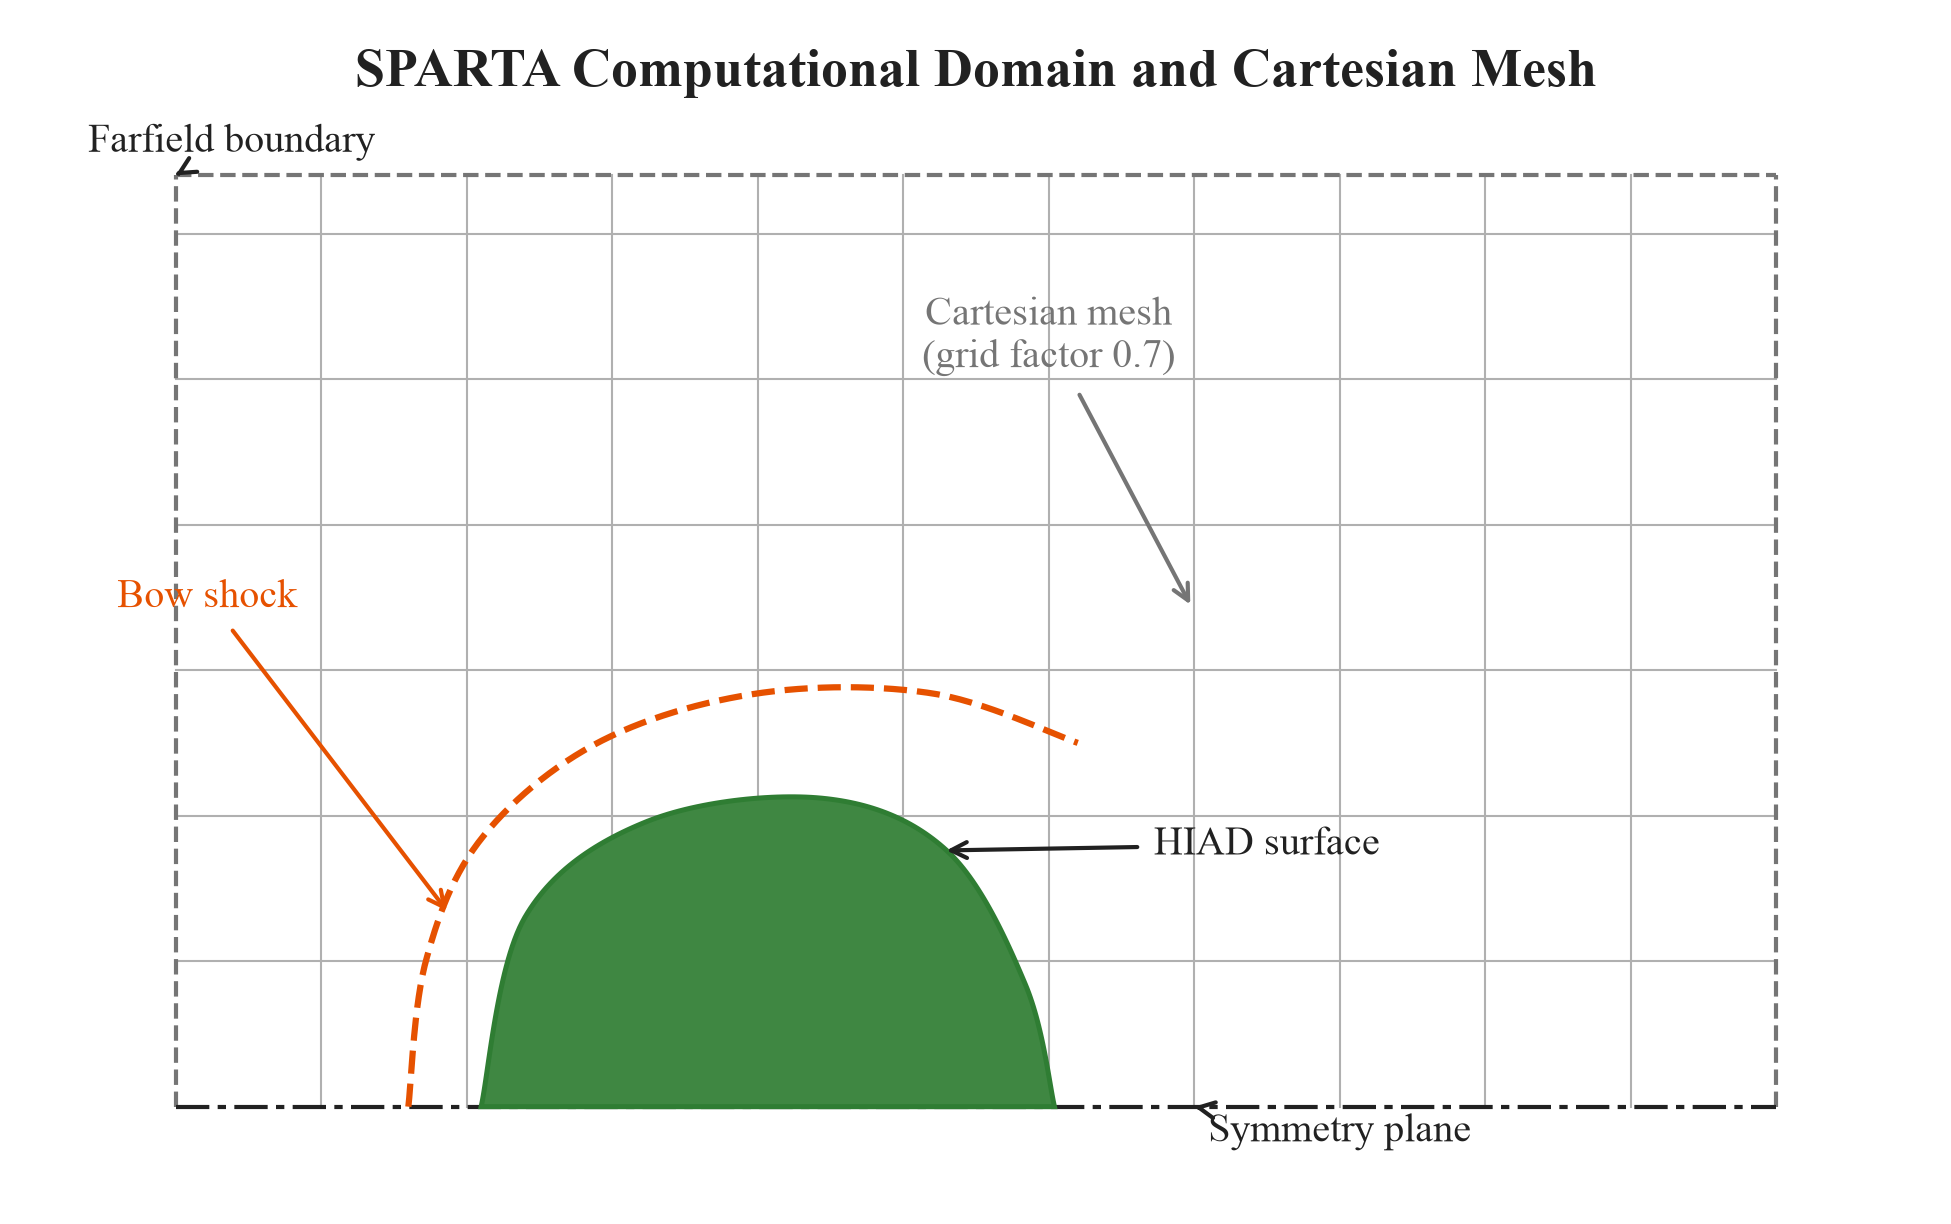
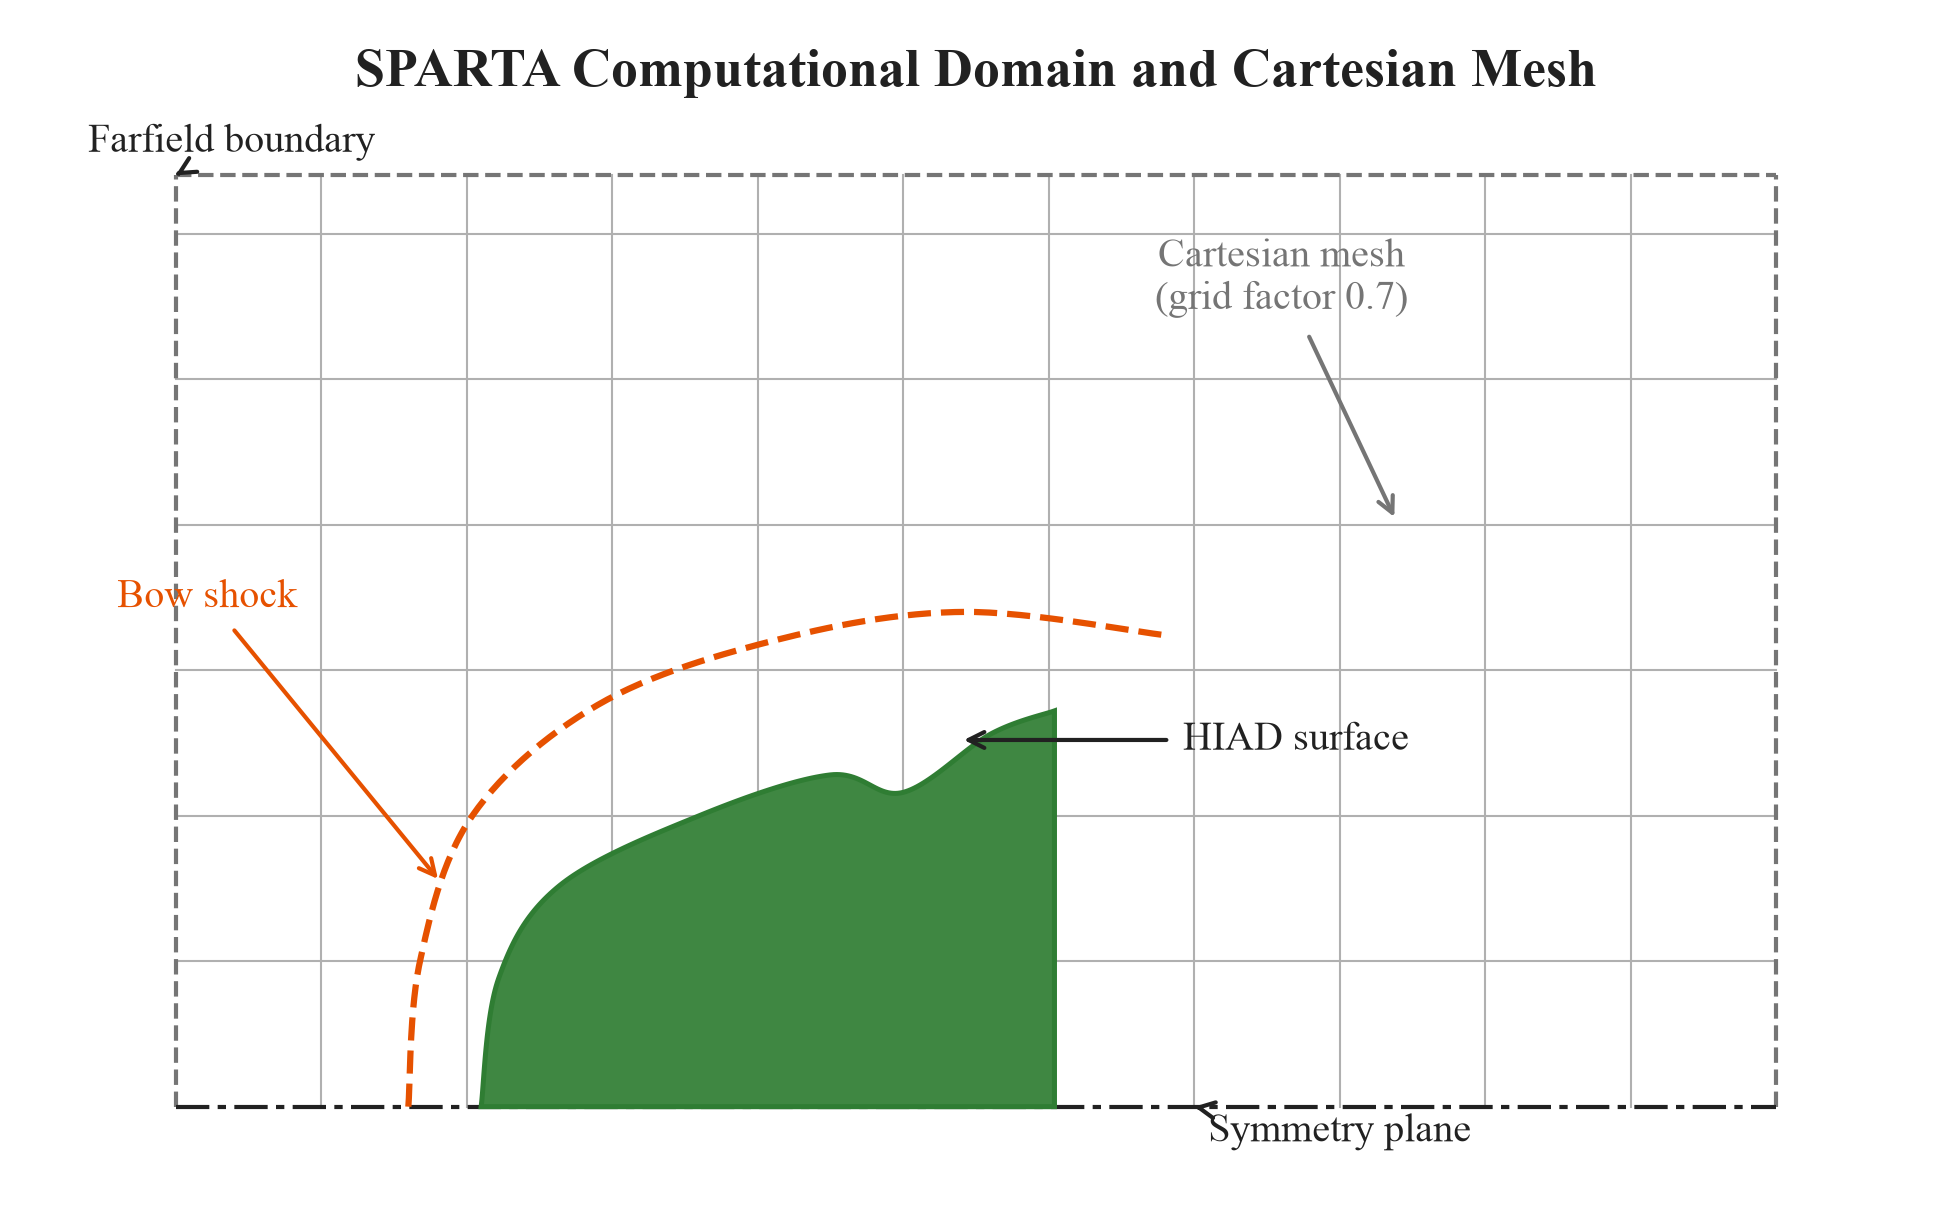
fix(thesis): redraw Figure III.6 as an actual HIAD aeroshell
Figure III.6 (SPARTA computational domain and Cartesian mesh) drew its
"HIAD vehicle" as a left-right symmetric half-ellipse sitting on the
symmetry plane, which is a generic bump: no nose cap, no conical flank,
no toroidal shoulder. Its own alt text claimed a "semicircular nose and
a toroidal body" that the drawing did not contain.

Two defects, both in build_domain_mesh:

1. The last surface control point sat on the symmetry plane, so the
   Catmull-Rom spline swept the surface back down onto the centerline
   and closed a symmetric bump rather than a body whose radius grows
   from the nose out to the base.

2. The flat aft base was encoded as the final vertex of the Path, which
   makes it the CLOSEPOLY vertex - and matplotlib discards CLOSEPOLY
   vertex coordinates, always closing back to the first vertex instead.
   The base corner was therefore never drawn at all, and the silhouette
   closed on a straight diagonal from the shoulder to the nose tip,
   producing a leaf shape.

The contour now runs nose tip -> blunt nose cap -> conical flank ->
notch at the torus stack root -> inflated toroidal shoulder -> base
corner (a real LINETO) -> close along the symmetry plane. The notch is
deliberate: the inflatable tori sit proud of the cone, which is what the
thesis's own figures/hiad_parametric_cross_section.png shows. The bow
shock was raised to clear the taller shoulder and the two arrow labels
were re-aimed at the new surface.
[…]

diff --git a/Lost+Found/ProgressReport/CurrentThesisFinalReport/figures/make_methodology_figures.py b/Lost+Found/ProgressReport/CurrentThesisFinalReport/figures/make_methodology_figures.py
@@ -278,40 +278,60 @@ def build_domain_mesh() -> object:
     for y in [0.8, 1.3, 1.8, 2.3, 2.8, 3.3]:
         ax.plot([0.5, 6.0], [y, y], color="#B0B0B0", linewidth=0.5, zorder=0)
 
-    # HIAD vehicle: one smooth, blunt body-of-revolution cross-section.
-    # WHY one closed interpolated contour: a previous revision pasted a nose arc
-    # onto a separate body wedge, which left a notch at the junction and read as
-    # a dome plus a ramp rather than a blunt aeroshell.  A single Catmull-Rom
-    # contour through the surface control points removes the notch.
+    # HIAD vehicle: a blunt aeroshell of revolution in meridian section,
+    # whose radius GROWS from the nose tip on the symmetry plane out to the
+    # inflated toroidal shoulder, then closes on a FLAT aft base.
+    #
+    # WHY the base corner is appended instead of interpolated: the aft face
+    # of a HIAD is a flat disk perpendicular to the symmetry plane.  If the
+    # last control point sits on the symmetry plane (as an earlier revision
+    # had it) the Catmull-Rom spline sweeps the surface back down onto the
+    # centerline, closing a left-right symmetric bump that reads as a dome
+    # plus a ramp rather than a flared aeroshell.  Taking the vertical base
+    # segment out of the interpolant keeps the silhouette asymmetric, which
+    # is what makes it read as a vehicle facing the flow.
+    #
+    # WHY the dip at the third-from-last point: the conical flank ends where
+    # the inflatable torus stack begins, and the tori sit proud of the cone,
+    # so the real skin shows a notch there before bulging outward again.
+    # See figures/hiad_parametric_cross_section.png (Rapisarda MDAO baseline).
     import numpy as np
     from matplotlib.path import Path
     from matplotlib.patches import PathPatch
 
-    vx, vy = _blunt_body_contour(
-        [(1.55, 0.30),   # nose tip, on the symmetry plane (front)
-         (1.70, 0.95),   # blunt nose
-         (2.12, 1.28),   # forebody
-         (2.72, 1.36),   # toroidal body crest
-         (3.15, 1.18),   # aft shoulder
-         (3.42, 0.72),   # aft taper
-         (3.52, 0.30)],  # aft base, on the symmetry plane
+    y0 = 0.30  # symmetry plane
+    sx, sy = _blunt_body_contour(
+        [(1.55, y0),    # nose tip, on the symmetry plane (stagnation point)
+         (1.61, 0.74),  # blunt nose cap
+         (1.82, 1.06),  # nose / forebody junction
+         (2.30, 1.30),  # conical flank at theta_c
+         (2.75, 1.44),  # flank ends where the torus stack begins
+         (3.00, 1.38),  # root of the inflated shoulder (tori sit proud)
+         (3.30, 1.58),  # inflated toroidal shoulder bulge
+         (3.52, 1.66)], # shoulder crest at the outer edge
         samples_per_segment=30)
-    # Close the silhouette along the symmetry plane (nose base to aft base).
-    verts = list(zip(vx, vy)) + [(vx[0], vy[0])]
-    codes = [Path.MOVETO] + [Path.LINETO] * (len(vx) - 1) + [Path.CLOSEPOLY]
+    # Vertices are: surface, then the base corner, then a repeat of the nose
+    # tip.  The repeat exists because Path assigns each code to one vertex
+    # and CLOSEPOLY's vertex coordinates are DISCARDED, so the closing edge
+    # is always drawn back to the first vertex.  Putting the base corner last
+    # would have made it the discarded vertex, and the silhouette would then
+    # close on a straight diagonal from the shoulder to the nose tip.
+    pts = list(zip(sx, sy))
+    verts = pts + [(pts[-1][0], y0), pts[0]]
+    codes = [Path.MOVETO] + [Path.LINETO] * (len(verts) - 2) + [Path.CLOSEPOLY]
     ax.add_patch(PathPatch(Path(verts, codes), facecolor=SOLVER_FILL,
                            edgecolor=SOLVER_EDGE, linewidth=1.2, zorder=2))
 
     # Bow shock: one smooth curve, convex upstream, detached ahead of the nose
-    # and wrapping aft over the shoulder.
+    # and wrapping aft clear of the taller shoulder.
     sx, sy = _blunt_body_contour(
-        [(1.30, 0.30),   # vertex on the symmetry plane, upstream of the nose
-         (1.36, 0.80),   # near-normal stand-off (convex upstream)
-         (1.55, 1.22),   #
-         (1.95, 1.55),   # curving over the shoulder
-         (2.50, 1.72),   #
-         (3.10, 1.72),   # trailing aft
-         (3.60, 1.55)],
+        [(1.30, y0),    # vertex on the symmetry plane, upstream of the nose
+         (1.34, 0.80),  # near-normal stand-off (convex upstream)
+         (1.52, 1.30),  #
+         (1.95, 1.68),  # curving over the shoulder
+         (2.55, 1.90),  #
+         (3.20, 2.00),  # trailing aft
+         (3.90, 1.92)],
         samples_per_segment=30)
     ax.plot(sx, sy, linestyle="--", color=ORANGE, linewidth=1.5, zorder=1)
 
@@ -319,17 +339,17 @@ def build_domain_mesh() -> object:
     ax.annotate("Farfield boundary", xy=(0.5, 3.5), xytext=(0.2, 3.55),
                 fontsize=9.5, color=INK, ha="left", va="bottom",
                 arrowprops=dict(arrowstyle="->", color=INK, lw=1.0))
-    ax.annotate("Symmetry plane", xy=(4.0, 0.3), xytext=(4.5, 0.15),
+    ax.annotate("Symmetry plane", xy=(4.0, y0), xytext=(4.5, 0.15),
                 fontsize=9.5, color=INK, ha="center", va="bottom",
                 arrowprops=dict(arrowstyle="->", color=INK, lw=1.0))
-    ax.annotate("HIAD surface", xy=(3.12, 1.18), xytext=(4.25, 1.20),
+    ax.annotate("HIAD surface", xy=(3.18, 1.56), xytext=(4.35, 1.56),
                 fontsize=9.5, color=INK, ha="center", va="center",
                 arrowprops=dict(arrowstyle="->", color=INK, lw=1.0))
-    ax.annotate("Bow shock", xy=(1.45, 0.95), xytext=(0.3, 2.05),
+    ax.annotate("Bow shock", xy=(1.42, 1.06), xytext=(0.3, 2.05),
                 fontsize=9.5, color=ORANGE, ha="left", va="center",
                 arrowprops=dict(arrowstyle="->", color=ORANGE, lw=1.0))
-    ax.annotate("Cartesian mesh\n(grid factor 0.7)", xy=(4.0, 2.0),
-                xytext=(3.5, 2.8), fontsize=9.5, color=HEADER_GRAY,
+    ax.annotate("Cartesian mesh\n(grid factor 0.7)", xy=(4.7, 2.3),
+                xytext=(4.3, 3.0), fontsize=9.5, color=HEADER_GRAY,
                 ha="center", va="bottom",
                 arrowprops=dict(arrowstyle="->", color=HEADER_GRAY, lw=1.0))
 

diff --git a/Lost+Found/ProgressReport/CurrentThesisFinalReport/chapter_03_methodology.tex b/Lost+Found/ProgressReport/CurrentThesisFinalReport/chapter_03_methodology.tex
@@ -330,10 +330,10 @@ The grid factor \textbf{0.7} is the default for all production runs: Table~\ref{
 
 \begin{figure}[!htbp]
     \centering
-    \BeginAccSupp{method=escape,ActualText={Two-dimensional axisymmetric schematic of the SPARTA computational domain, all dimensions in metres. Free-stream flow enters from the left. A dashed rectangular farfield boundary encloses the domain. A horizontal symmetry plane runs along the bottom. The HIAD vehicle, comprising a semicircular nose and a toroidal body, sits on the symmetry plane. A dashed orange curve marks the bow shock upstream of the vehicle. A uniform Cartesian mesh overlay covers the domain.}}%
+    \BeginAccSupp{method=escape,ActualText={Two-dimensional axisymmetric schematic of the SPARTA computational domain, all dimensions in metres. Free-stream flow enters from the left. A dashed rectangular farfield boundary encloses the domain. A horizontal symmetry plane runs along the bottom. The HIAD vehicle sits on that symmetry plane as a blunt aeroshell in meridian section: a rounded nose cap at its upstream end meeting the centerline with a vertical tangent, a conical flank whose radius grows toward the aft, a small notch where the conical flank meets the inflatable torus stack, a rounded inflated toroidal shoulder, and a flat vertical base closing the aft end. A dashed orange curve marks the detached bow shock upstream of the vehicle. A uniform Cartesian mesh overlay covers the domain.}}%
     \includegraphics[width=\textwidth]{figures/domain_mesh.png}%
     \EndAccSupp{}%
-    \caption[SPARTA computational domain and Cartesian mesh schematic.]{SPARTA computational domain and Cartesian mesh schematic: the two-dimensional axisymmetric half-domain. Free-stream flow enters from the left; the dashed grey rectangle is the farfield boundary; the heavy bottom line is the symmetry/centerline plane; the green shape is the HIAD vehicle cross-section sitting on that plane; the orange dashed curve is the predicted bow shock upstream of the vehicle; and the grey overlay is the uniform Cartesian mesh (grid factor 0.7).}
+    \caption[SPARTA computational domain and Cartesian mesh schematic.]{SPARTA computational domain and Cartesian mesh schematic: the two-dimensional axisymmetric half-domain. Free-stream flow enters from the left; the dashed grey rectangle is the farfield boundary; the heavy bottom line is the symmetry/centerline plane; the green shape is the HIAD vehicle in meridian section, a blunt aeroshell whose radius grows from the rounded nose cap on the symmetry plane along the conical flank, past the notch where the inflatable torus stack begins, to the inflated toroidal shoulder and the flat vertical base; the orange dashed curve is the predicted detached bow shock upstream of the vehicle; and the grey overlay is the uniform Cartesian mesh (grid factor 0.7).}
     \label{fig:domain_mesh}
 \end{figure}
 
